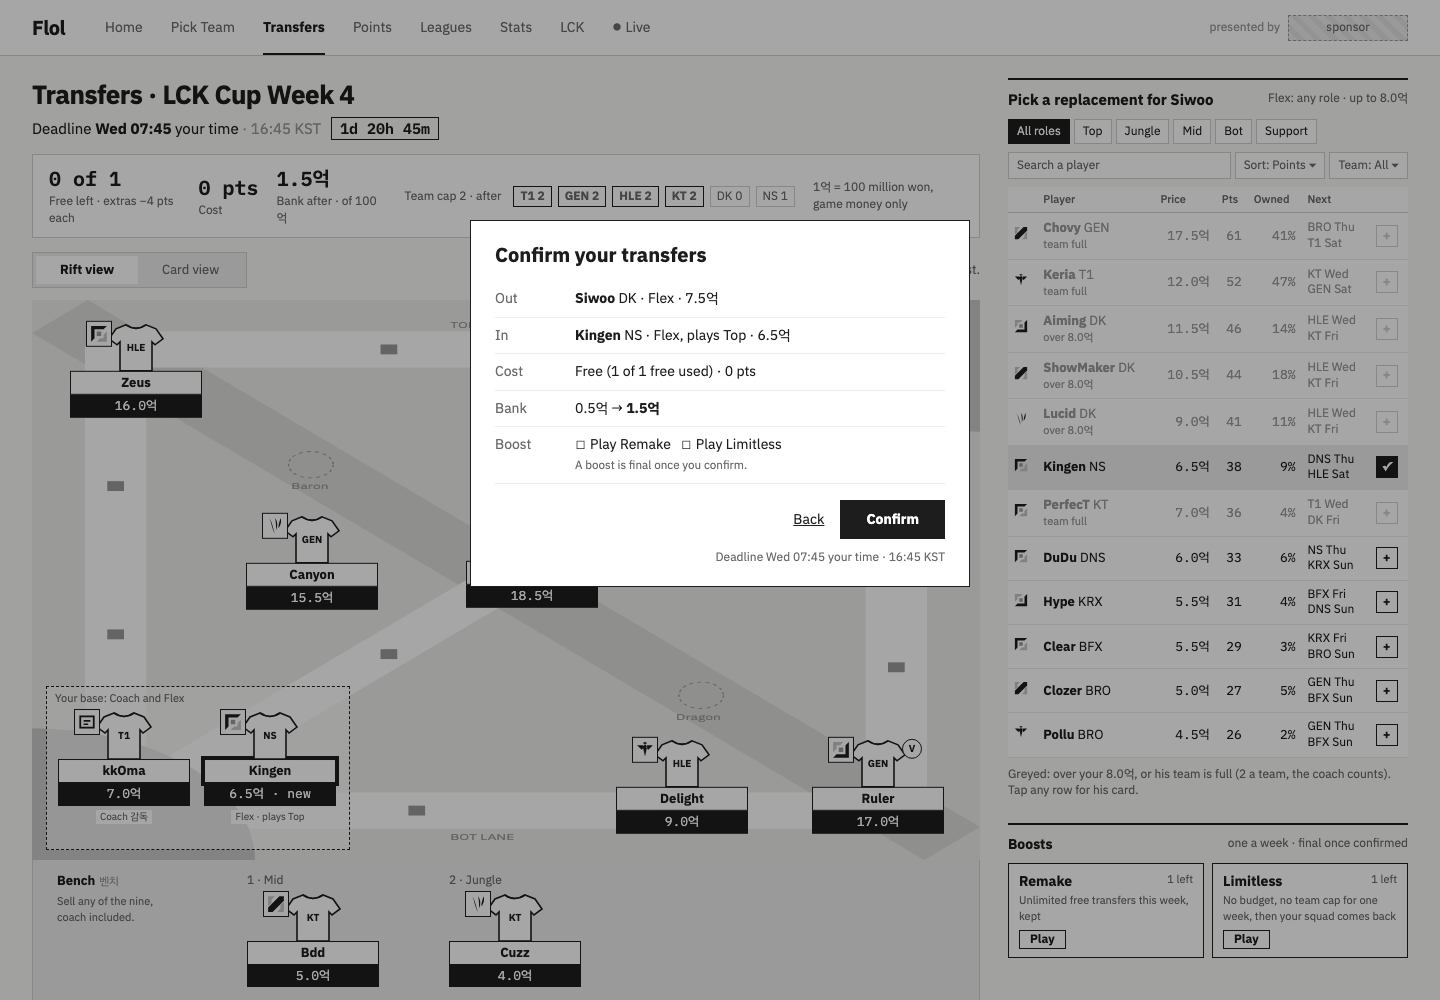
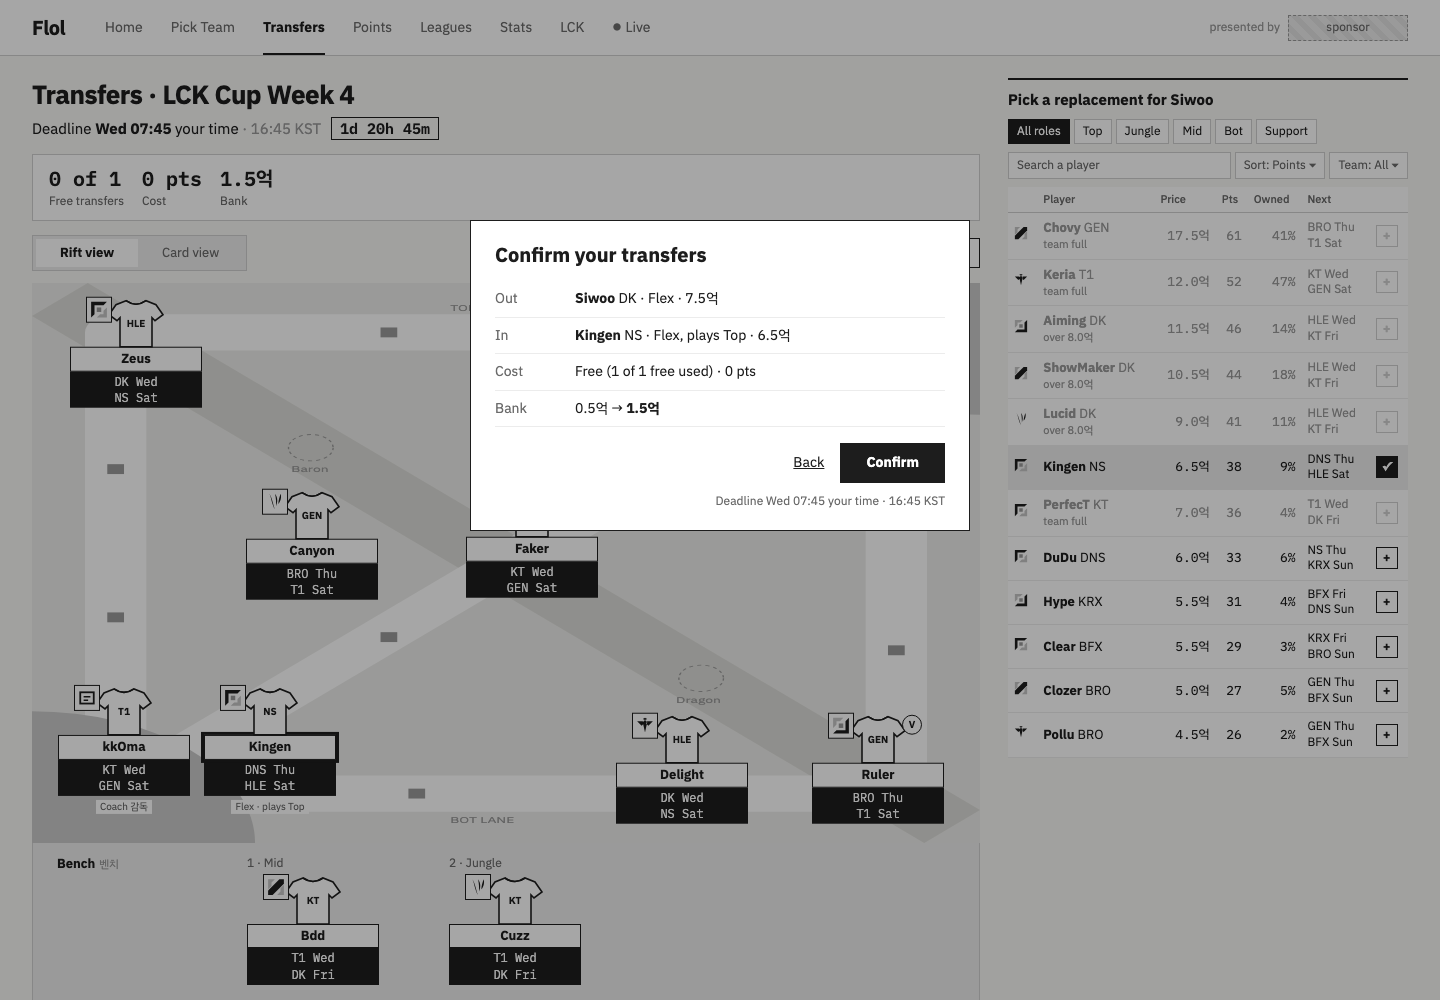
docs: Transfers loses its explainers and boosts; fixtures under players, Show toggle

diff --git a/docs/design/approved/transfers/confirm.html b/docs/design/approved/transfers/confirm.html
@@ -117,7 +117,8 @@ aside h2 span { font-weight: 400; color: var(--mid); font-size: 12px; }
 .plist tr.no .add { border-color: var(--line); color: var(--line); } .plist tr.pick td { background: var(--fill); } .plist tr.pick .add { background: var(--ink); color: #fff; }
 .confirm { display: flex; justify-content: space-between; align-items: center; margin-top: 14px; border: 1.5px solid var(--ink); background: var(--paper); padding: 10px 14px; font-size: 14px; }
 .confirm .out { text-decoration: line-through; color: var(--mid); }
-.tile .pr { background: var(--ink); color: #fff; font-family: "IBM Plex Mono", monospace; font-size: 13px; padding: 2px 0; }
+.tile .pr { background: var(--ink); color: #fff; font-family: "IBM Plex Mono", monospace; font-size: 12px; line-height: 1.35; padding: 2px 0; }
+.ctl .show { border: 1.5px solid var(--ink); padding: 5px 12px; font-size: 13px; color: var(--ink); background: var(--paper); }
 .tile.sold .kit, .tile.sold .nm, .tile.sold .sl { opacity: .35; } .tile.sold .pr { background: var(--paper); color: var(--ink); border: 1.5px dashed var(--ink); }
 .veil { position: fixed; inset: 0; background: rgba(0,0,0,.35); z-index: 10; }
 .sheet2 { position: absolute; left: 470px; top: 220px; width: 500px; background: var(--paper); border: 1.5px solid var(--ink); z-index: 11; padding: 20px 24px; }
@@ -145,11 +146,9 @@ aside h2 span { font-weight: 400; color: var(--mid); font-size: 12px; }
 <div class="page"><main>
 <div class="ph1"><div><h1>Transfers · LCK Cup Week 4</h1><div class="dl">Deadline <b>Wed 07:45</b> your time <span>· 16:45 KST</span><b class="cd">1d 20h 45m</b></div></div></div>
 <div class="tstats">
-  <div><b>0 of 1</b><span>Free left · extras −4 pts each</span></div><div><b>0 pts</b><span>Cost</span></div><div><b>1.5억</b><span>Bank after · of 100억</span></div>
-  <div class="caps"><span class="k">Team cap 2 · after</span><span class="f">T1 2</span><span class="f">GEN 2</span><span class="f">HLE 2</span><span class="f">KT 2</span><span>DK 0</span><span>NS 1</span></div>
-  <div class="bz" style="font-size:12px;color:var(--mid)">1억 = 100 million won, game money only</div>
+  <div><b>0 of 1</b><span>Free transfers</span></div><div><b>0 pts</b><span>Cost</span></div><div><b>1.5억</b><span>Bank</span></div>
 </div>
-<div class="ctl"><span class="tog"><span class="on">Rift view</span><span>Card view</span></span><span>Tap a player to sell him, then pick his replacement from the list.</span></div>
+<div class="ctl"><span class="tog"><span class="on">Rift view</span><span>Card view</span></span><span class="show">Show: Fixtures ▾</span></div>
 <div class="rift" id="rift"><svg class="map" viewBox="0 0 680 680" preserveAspectRatio="none">
         <rect x="0" y="0" width="680" height="680" fill="#ededeb"/>
         <!-- river: top-left to bottom-right -->
@@ -169,20 +168,17 @@ aside h2 span { font-weight: 400; color: var(--mid); font-size: 12px; }
         <circle cx="200" cy="200" r="16" fill="none" stroke="#9a9a9a" stroke-dasharray="3 3"/><circle cx="480" cy="480" r="16" fill="none" stroke="#9a9a9a" stroke-dasharray="3 3"/>
         <g font-family="IBM Plex Sans KR" font-size="10" fill="#9a9a9a"><text x="186" y="230">Baron</text><text x="462" y="510">Dragon</text>
         <text x="300" y="34">TOP LANE</text><text x="300" y="656">BOT LANE</text></g>
-      </svg><div class="basebox"><span>Your base: Coach and Flex</span></div></div>
-<div class="benchb" id="bench"><h3>Bench<i>벤치</i><small>Sell any of the nine, coach included.</small></h3></div>
+      </svg></div>
+<div class="benchb" id="bench"><h3>Bench<i>벤치</i></h3></div>
 
 <div class="confirm"><div><b>1 transfer</b> · free · <span class="out">Siwoo 7.5억</span> → <b>Kingen 6.5억</b> · bank 0.5 → 1.5억</div><span><span class="reset">Reset</span><button class="save">Review and confirm ›</button></span></div>
 </main>
 <aside>
-<section class="pl2"><h2>Pick a replacement for Siwoo <span>Flex: any role · up to 8.0억</span></h2>
+<section class="pl2"><h2>Pick a replacement for Siwoo</h2>
 <div class="flt"><span class="on">All roles</span><span>Top</span><span>Jungle</span><span>Mid</span><span>Bot</span><span>Support</span></div>
 <div class="flt2"><span class="srch">Search a player</span><span>Sort: Points ▾</span><span>Team: All ▾</span></div>
 <table class="plist"><thead><tr><th></th><th>Player</th><th>Price</th><th>Pts</th><th>Owned</th><th>Next</th><th></th></tr></thead><tbody id="pl"></tbody></table>
-<div class="note2">Greyed: over your 8.0억, or his team is full (2 a team, the coach counts). Tap any row for his card.</div></section>
-<section style="margin-top:22px"><h2>Boosts <span>one a week · final once confirmed</span></h2><div class="chips">
-<div class="chip"><span class="lft">1 left</span><b>Remake</b><small>Unlimited free transfers this week, kept</small><span class="go">Play</span></div>
-<div class="chip"><span class="lft">1 left</span><b>Limitless</b><small>No budget, no team cap for one week, then your squad comes back</small><span class="go">Play</span></div></div></section>
+</section>
 </aside>
 </div>
 <script>// Made-up LCK Cup Week 4 for the Pick Team wireframes. Every number is an example.
@@ -218,7 +214,7 @@ function tile(p) {
   const nx = p.slot === "coach" ? nextOf(p.team).join(" · ") : nextOf(p.team).join(" · ");
   const sl = p.slot === "flex" ? `<div class="sl">Flex · plays ${SLOTNAME[p.role]}</div>` : p.slot === "coach" ? `<div class="sl">Coach 감독</div>` : p.news ? `<div class="sl">${p.news}</div>` : "";
   return `<div class="tile ${p.name === "Kingen" ? "sel" : ""}"><div class="kit"><svg class="shirt"><use href="#shirt"/></svg><span class="code">${p.team}</span><span class="ri"><svg><use href="#${iconOf(p)}"/></svg></span>${mk}${nw}</div>
-  <div class="nm ${p.cake ? "cake" : ""}">${p.name}</div><div class="pr">${p.price}억${p.name === "Kingen" ? " · new" : ""}</div>${sl}</div>`;
+  <div class="nm ${p.cake ? "cake" : ""}">${p.name}</div><div class="pr">${nextOf(p.team).map((x) => x.slice(2)).join("<br>")}</div>${sl}</div>`;
 }
 PSQ.map((p) => p.name === "Siwoo" ? Object.assign({}, p, IN, { news: null, price: "6.5" }) : p).filter((p) => POS[p.slot]).forEach((p) => { const w = document.createElement("div"); w.innerHTML = tile(p); const t = w.firstElementChild; t.style.left = POS[p.slot][0] + "px"; t.style.top = POS[p.slot][1] + "px"; document.getElementById("rift").appendChild(t); });
 document.getElementById("bench").insertAdjacentHTML("beforeend", PSQ.filter((p) => /^b\d/.test(p.slot)).map((p, i) => `<div><div style="font-size:12px;color:var(--mid);margin-bottom:4px">${i + 1} · ${SLOTNAME[p.role]}</div>${tile(p)}</div>`).join(""));
@@ -234,6 +230,5 @@ const MINE = new Set();
 void 0; // = W4.map((s) => `<div class="${MINE.has(s[3]) || MINE.has(s[4]) ? "mine" : ""}"><span class="d">${s[0]}</span><span><b class="${MINE.has(s[3]) ? "y" : ""}">${s[3]}</b> v <b class="${MINE.has(s[4]) ? "y" : ""}">${s[4]}</b></span><span class="t">${s[1]} <span style="color:var(--soft)">${s[2]} KST</span></span></div>`).join("");
 </script><div class="veil"></div><div class="sheet2"><h3>Confirm your transfers</h3>
 <table><tr><td class="k">Out</td><td><b>Siwoo</b> DK · Flex · 7.5억</td></tr><tr><td class="k">In</td><td><b>Kingen</b> NS · Flex, plays Top · 6.5억</td></tr>
-<tr><td class="k">Cost</td><td>Free (1 of 1 free used) · 0 pts</td></tr><tr><td class="k">Bank</td><td>0.5억 → <b>1.5억</b></td></tr>
-<tr><td class="k">Boost</td><td><label>☐ Play Remake</label> &nbsp; <label>☐ Play Limitless</label><br><small>A boost is final once you confirm.</small></td></tr></table>
+<tr><td class="k">Cost</td><td>Free (1 of 1 free used) · 0 pts</td></tr><tr><td class="k">Bank</td><td>0.5억 → <b>1.5억</b></td></tr></table>
 <div class="sb"><span>Back</span><button class="save">Confirm</button></div><p>Deadline Wed 07:45 your time · 16:45 KST</p></div></body></html>

diff --git a/docs/design/approved/transfers/transfers.html b/docs/design/approved/transfers/transfers.html
@@ -117,7 +117,8 @@ aside h2 span { font-weight: 400; color: var(--mid); font-size: 12px; }
 .plist tr.no .add { border-color: var(--line); color: var(--line); } .plist tr.pick td { background: var(--fill); } .plist tr.pick .add { background: var(--ink); color: #fff; }
 .confirm { display: flex; justify-content: space-between; align-items: center; margin-top: 14px; border: 1.5px solid var(--ink); background: var(--paper); padding: 10px 14px; font-size: 14px; }
 .confirm .out { text-decoration: line-through; color: var(--mid); }
-.tile .pr { background: var(--ink); color: #fff; font-family: "IBM Plex Mono", monospace; font-size: 13px; padding: 2px 0; }
+.tile .pr { background: var(--ink); color: #fff; font-family: "IBM Plex Mono", monospace; font-size: 12px; line-height: 1.35; padding: 2px 0; }
+.ctl .show { border: 1.5px solid var(--ink); padding: 5px 12px; font-size: 13px; color: var(--ink); background: var(--paper); }
 .tile.sold .kit, .tile.sold .nm, .tile.sold .sl { opacity: .35; } .tile.sold .pr { background: var(--paper); color: var(--ink); border: 1.5px dashed var(--ink); }
 .tstats { gap: 18px; } .tstats b, .caps span, .flt2 span { white-space: nowrap; } .tstats > div > span { display: block; max-width: 140px; } .bz { max-width: 150px; }
 </style></head><body>
@@ -139,11 +140,9 @@ aside h2 span { font-weight: 400; color: var(--mid); font-size: 12px; }
 <div class="page"><main>
 <div class="ph1"><div><h1>Transfers · LCK Cup Week 4</h1><div class="dl">Deadline <b>Wed 07:45</b> your time <span>· 16:45 KST</span><b class="cd">1d 20h 45m</b></div></div></div>
 <div class="tstats">
-  <div><b>0 of 1</b><span>Free left · extras −4 pts each</span></div><div><b>0 pts</b><span>Cost</span></div><div><b>1.5억</b><span style="white-space:nowrap">Bank after · of 100억</span></div>
-  <div class="caps"><span class="k">Team cap 2 · after</span><span class="f">T1 2</span><span class="f">GEN 2</span><span class="f">HLE 2</span><span class="f">KT 2</span><span>DK 0</span><span>NS 1</span></div>
-  <div class="bz" style="font-size:12px;color:var(--mid)">1억 = 100 million won, game money only</div>
+  <div><b>0 of 1</b><span>Free transfers</span></div><div><b>0 pts</b><span>Cost</span></div><div><b>1.5억</b><span>Bank</span></div>
 </div>
-<div class="ctl"><span class="tog"><span class="on">Rift view</span><span>Card view</span></span><span>Tap a player to sell him, then pick his replacement from the list.</span></div>
+<div class="ctl"><span class="tog"><span class="on">Rift view</span><span>Card view</span></span><span class="show">Show: Fixtures ▾</span></div>
 <div class="rift" id="rift"><svg class="map" viewBox="0 0 680 680" preserveAspectRatio="none">
         <rect x="0" y="0" width="680" height="680" fill="#ededeb"/>
         <!-- river: top-left to bottom-right -->
@@ -163,20 +162,17 @@ aside h2 span { font-weight: 400; color: var(--mid); font-size: 12px; }
         <circle cx="200" cy="200" r="16" fill="none" stroke="#9a9a9a" stroke-dasharray="3 3"/><circle cx="480" cy="480" r="16" fill="none" stroke="#9a9a9a" stroke-dasharray="3 3"/>
         <g font-family="IBM Plex Sans KR" font-size="10" fill="#9a9a9a"><text x="186" y="230">Baron</text><text x="462" y="510">Dragon</text>
         <text x="300" y="34">TOP LANE</text><text x="300" y="656">BOT LANE</text></g>
-      </svg><div class="basebox"><span>Your base: Coach and Flex</span></div></div>
-<div class="benchb" id="bench"><h3>Bench<i>벤치</i><small>Sell any of the nine, coach included.</small></h3></div>
+      </svg></div>
+<div class="benchb" id="bench"><h3>Bench<i>벤치</i></h3></div>
 
 <div class="confirm"><div><b>1 transfer</b> · free · <span class="out">Siwoo 7.5억</span> → <b>Kingen 6.5억</b> · bank 0.5 → 1.5억</div><span><span class="reset">Reset</span><button class="save">Review and confirm ›</button></span></div>
 </main>
 <aside>
-<section class="pl2"><h2>Pick a replacement for Siwoo <span>Flex: any role · up to 8.0억</span></h2>
+<section class="pl2"><h2>Pick a replacement for Siwoo</h2>
 <div class="flt"><span class="on">All roles</span><span>Top</span><span>Jungle</span><span>Mid</span><span>Bot</span><span>Support</span></div>
 <div class="flt2"><span class="srch">Search a player</span><span>Sort: Points ▾</span><span>Team: All ▾</span></div>
 <table class="plist"><thead><tr><th></th><th>Player</th><th>Price</th><th>Pts</th><th>Owned</th><th>Next</th><th></th></tr></thead><tbody id="pl"></tbody></table>
-<div class="note2">Greyed, listed last: over your 8.0억, or his team is full (2 a team, the coach counts). Tap any row for his card.</div></section>
-<section style="margin-top:22px"><h2>Boosts <span>one a week · final once confirmed</span></h2><div class="chips">
-<div class="chip"><span class="lft">1 left</span><b>Remake</b><small>Unlimited free transfers this week, kept</small><span class="go">Play</span></div>
-<div class="chip"><span class="lft">1 left</span><b>Limitless</b><small>No budget, no team cap for one week, then your squad comes back</small><span class="go">Play</span></div></div></section>
+</section>
 </aside>
 </div>
 <script>// Made-up LCK Cup Week 4 for the Pick Team wireframes. Every number is an example.
@@ -212,7 +208,7 @@ function tile(p) {
   const nx = p.slot === "coach" ? nextOf(p.team).join(" · ") : nextOf(p.team).join(" · ");
   const sl = p.slot === "flex" ? `<div class="sl">Flex · plays ${SLOTNAME[p.role]}</div>` : p.slot === "coach" ? `<div class="sl">Coach 감독</div>` : p.news ? `<div class="sl">${p.news}</div>` : "";
   return `<div class="tile ${p.name === "Kingen" ? "sel" : ""}"><div class="kit"><svg class="shirt"><use href="#shirt"/></svg><span class="code">${p.team}</span><span class="ri"><svg><use href="#${iconOf(p)}"/></svg></span>${mk}${nw}</div>
-  <div class="nm ${p.cake ? "cake" : ""}">${p.name}</div><div class="pr">${p.name === "Kingen" ? "6.5억 · new" : "sells " + p.price + "억"}</div>${sl}</div>`;
+  <div class="nm ${p.cake ? "cake" : ""}">${p.name}</div><div class="pr">${nextOf(p.team).map((x) => x.slice(2)).join("<br>")}</div>${sl}</div>`;
 }
 PSQ.map((p) => p.name === "Siwoo" ? Object.assign({}, p, IN, { news: null, price: "6.5" }) : p).filter((p) => POS[p.slot]).forEach((p) => { const w = document.createElement("div"); w.innerHTML = tile(p); const t = w.firstElementChild; t.style.left = POS[p.slot][0] + "px"; t.style.top = POS[p.slot][1] + "px"; document.getElementById("rift").appendChild(t); });
 document.getElementById("bench").insertAdjacentHTML("beforeend", PSQ.filter((p) => /^b\d/.test(p.slot)).map((p, i) => `<div><div style="font-size:12px;color:var(--mid);margin-bottom:4px">${i + 1} · ${SLOTNAME[p.role]}</div>${tile(p)}</div>`).join(""));

diff --git a/docs/design/approved/transfers/README.md b/docs/design/approved/transfers/README.md
@@ -1,29 +1,31 @@
 # Transfers
 
-Where a manager sells and buys players and plays Remake or Limitless. Reached from **Transfers** in the top bar. Drawn at 1440 in the same frame as Points and Pick Team: the squad on the left, the bench under it, the player list on the right.
+Where a manager sells and buys players. Reached from **Transfers** in the top bar. Drawn at 1440 in the same frame as Points and Pick Team: the squad on the left, the bench under it, the player list on the right.
 
-**Approved:** Craig, 13 Nov 2026. He asked for players who are too dear to be greyed but still listed ("we need to see those players"), then said "Yes save". Names, teams and numbers are a made-up LCK Cup Week 4, not roster data. No `plate.md` yet: this binds layout, content and order, not colour or type.
+**Approved:** Craig, 13 Nov 2026. He asked for players who are too dear to be greyed but still listed ("we need to see those players"), then said "Yes save". Later that day he cut Form, asked for both of the week's series under each player and in Next, a toggle for what shows under a player, no explainer sentences, and the boosts kept on Pick Team. Names, teams and numbers are a made-up LCK Cup Week 4, not roster data. No `plate.md` yet: this binds layout, content and order, not colour or type.
 
 | File | Shows |
 |---|---|
-| `1440.png`, `transfers.html` | Rift view mid-transfer: Siwoo sold, Kingen standing in the Flex marked "new", the list filtered to the Flex and the bank left |
-| `1440-confirm.png`, `confirm.html` | The confirm sheet: out, in, cost, bank, the boost tick boxes |
+| `1440.png`, `transfers.html` | Rift view mid-transfer: Siwoo sold, Kingen standing in the Flex, the list filtered to the Flex and the bank left |
+| `1440-confirm.png`, `confirm.html` | The confirm sheet: out, in, cost, bank |
 
 ## Borrowed
 
-- **FPL's Transfers**: the squad beside a player list with role, search, sort and team filters, then a confirm step. The prices on the squad are selling prices, as in FPL; in Flol a player sells at his full current price (spec/02), so the tiles say "sells".
+- **FPL's Transfers**: the squad beside a player list with role, search, sort and team filters, then a confirm step. A player sells at his full current price (spec/02).
+- **FPL's squad toggle**: one switch for what sits under every player.
 - **Greyed but listed**, not refused at confirm: a player Flol can't buy stays in the list with why (over the budget, or his team is full), sorted last.
-- **The team-cap count after the transfer**, moved here from the Pick Team panel.
 - Research on other games: [docs/research/transfers-page-references.md](../../../research/transfers-page-references.md).
 
 ## Controls
 
 - **Rift view | Card view**: the same choice as Pick Team. Not in the spec yet; in [to-grill](../../../to-grill.md).
+- **Show ▾**: what sits under each player: Fixtures (both of the week's series, the default), Price or Owned.
 - **A player on the squad**: sells him; the list filters to his slot (his role, or any role for the Flex) and what the bank allows. Any of the nine, coach included, can be sold.
-- **A row's +**: buys that player into the empty slot; he shows on the squad marked "new". A greyed row opens his card but can't be bought.
-- **Top strip**: free transfers left, the points cost, the bank after, and each team's count after the transfer against the cap (spec/03, spec/10).
+- **A row's +**: buys that player into the empty slot. A greyed row opens his card but can't be bought.
+- **Top strip**: free transfers, the points cost, the bank.
 - **Bottom bar**: the transfers so far, Reset, and Review and confirm.
-- **Confirm sheet**: what changes, the cost and the bank; Remake or Limitless can be ticked here. Whether a chip is final once confirmed, and whether the screen says boost or chip, are not in the spec yet; in [to-grill](../../../to-grill.md). Back or Confirm, with the deadline.
+- **Confirm sheet**: what changes, the cost and the bank. Back or Confirm, with the deadline.
+- **No boosts here**: Remake and Limitless are played from Pick Team.
 
 ## Placeholders
 
@@ -33,7 +35,7 @@ Where a manager sells and buys players and plays Remake or Limitless. Reached fr
 | Prices in 억 and the budget | #22 |
 | Squad shape, flex, coach, team cap | #13 |
 | Remake and Limitless | #25 |
-| Form, ownership, next series | #36 |
+| Ownership, next series | #36 |
 | Sponsor slot | spec/13 |
 
 ## Still open

diff --git a/docs/to-grill.md b/docs/to-grill.md
@@ -10,17 +10,15 @@ From the Transfers research ([docs/research/transfers-page-references.md](resear
 - Selling a player and buying him back in the same week costs nothing (F1 Fantasy).
 - Playing Remake after paid transfers wipes that week's −4s (UCL Fantasy).
 - A price-change arrow on each player, once Flol decides whether prices move in a split (#23).
-- A Sell all button for Remake and Limitless (LTA Fantasy).
 - A watchlist (FPL).
-- A switch on the squad to show next series, owned % or form in place of price (FPL 2026/27).
 
 ## Transfers picture, not yet specced (13 Nov 2026)
 
 Drawn into the approved Transfers picture on Craig's chat yes; no spec file holds them yet:
 
 - Card view beside Rift view, and whether the choice is remembered.
-- A chip ticked on the confirm sheet is final once confirmed (FPL lets you cancel until the deadline), and whether the screen says boost or chip.
-- The team-count strip, the "new" marker on a bought player, and greyed players sorted last.
+- Whether a chip is final once played (FPL lets you cancel until the deadline), and whether the screen says boost or chip.
+- Greyed players sorted last.
 
 ## Achievements, parked (13 Nov 2026)
 
